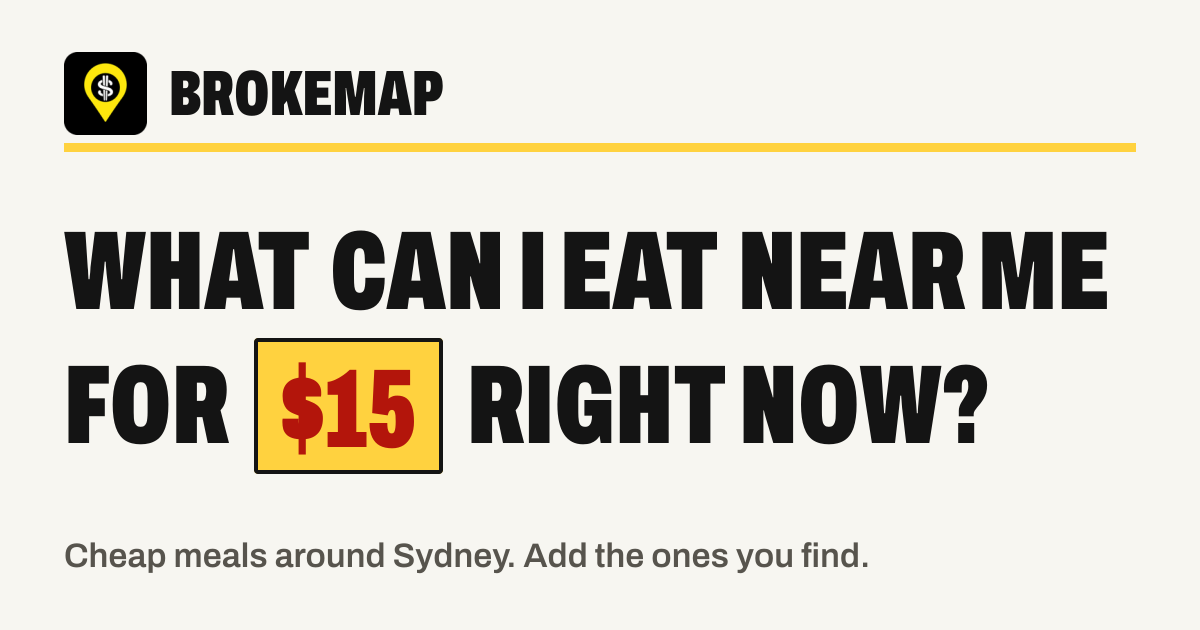
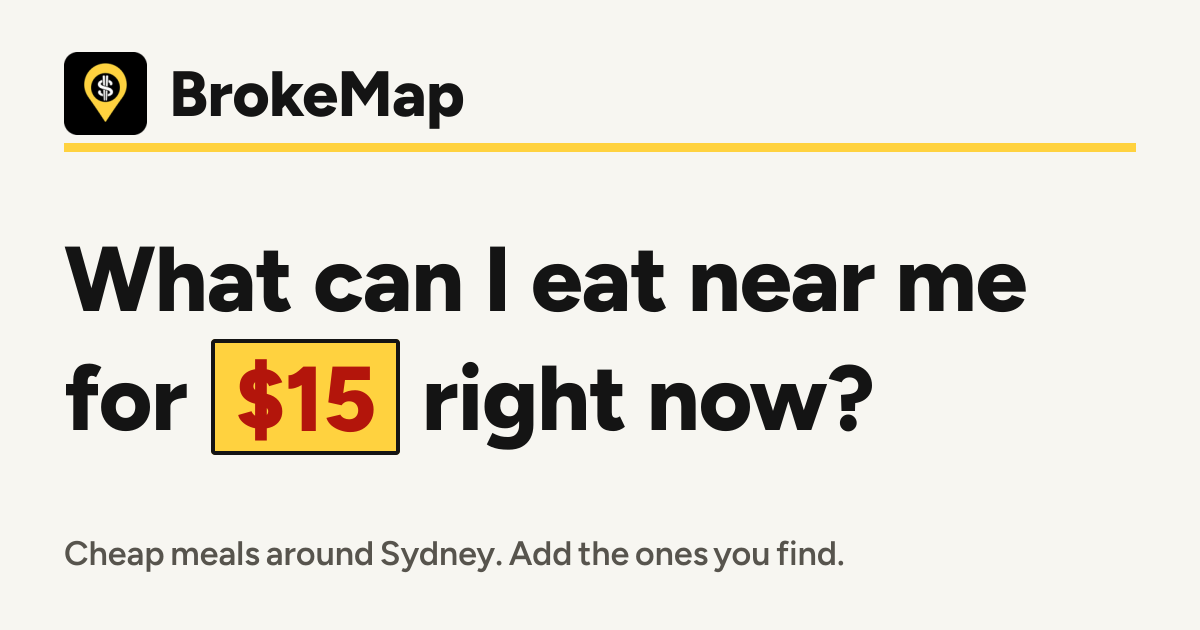
BrokeMap landing: Figtree in sentence case, as in the app (D-125)
Archivo's condensed black capitals become Figtree 800 in sentence case; og.png and phone.jpg are
redrawn from the Figtree build, and the logo is the app's current one (the pin in the ticket
yellow). Not deployed.

diff --git a/brokemap/landing.css b/brokemap/landing.css
@@ -1,5 +1,5 @@
 /* BrokeMap landing page, in the app's own look (cheap-eats docs/DESIGN.md): receipt paper, ink,
-   one yellow ticket with a red price, Archivo. Privacy and terms keep the site's style.css. */
+   one yellow ticket with a red price, Figtree in sentence case (D-125). Privacy and terms keep the site's style.css. */
 :root {
   --paper: #f7f6f1;
   --surface: #ffffff;
@@ -9,7 +9,7 @@
   --ticket: #ffd23f;
   --ticket-price: #b3150b;
   --focus: #1d4ed8;
-  --font: 'Archivo', 'Arial Narrow', system-ui, sans-serif;
+  --font: 'Figtree', system-ui, -apple-system, 'Segoe UI', Roboto, sans-serif;
   color-scheme: light;
 }
 @media (prefers-color-scheme: dark) {
@@ -28,16 +28,16 @@ html, body { margin: 0; }
 body { background: var(--paper); color: var(--ink); font-family: var(--font); font-size: 17px; line-height: 1.5; overflow-wrap: break-word; }
 a { color: var(--ink); text-underline-offset: 3px; }
 a:focus-visible { outline: 3px solid var(--focus); outline-offset: 2px; }
-.cond { font-stretch: 62.5%; font-variation-settings: 'wdth' 62.5; font-weight: 900; word-spacing: 0.14em; text-transform: uppercase; }
+.heavy { font-weight: 800; letter-spacing: -0.01em; }
 .wrap { max-width: 1080px; margin: 0 auto; padding: 32px 16px 48px; display: grid; gap: 48px; }
 .hero { display: grid; gap: 28px; align-items: center; }
 .copy { display: grid; gap: 16px; justify-items: start; }
 .brand { display: flex; align-items: center; gap: 10px; margin: 0; font-size: 26px; line-height: 1; }
 .brand img { border-radius: 7px; display: block; }
-h1 { margin: 0; font-size: clamp(2.5rem, 9vw, 3.6rem); line-height: 0.98; text-wrap: balance; }
+h1 { margin: 0; font-size: clamp(2.25rem, 8.5vw, 3.4rem); line-height: 1.05; text-wrap: balance; }
 .ticket { display: inline-block; background: var(--ticket); color: var(--ticket-price); border: 2px solid #141414; border-radius: 2px; padding: 0 0.12em; font-variant-numeric: tabular-nums; line-height: 1; }
 .lede { margin: 0; font-size: 19px; max-width: 34ch; }
-.open { display: inline-flex; align-items: center; justify-content: center; min-height: 52px; padding: 10px 28px; background: var(--ink); color: var(--paper); border-radius: 4px; font-size: 21px; font-weight: 800; letter-spacing: 0.02em; text-decoration: none; }
+.open { display: inline-flex; align-items: center; justify-content: center; min-height: 52px; padding: 10px 28px; background: var(--ink); color: var(--paper); border-radius: 4px; font-size: 21px; font-weight: 800; letter-spacing: -0.01em; text-decoration: none; }
 .open:hover { background: color-mix(in srgb, var(--ink) 86%, var(--paper)); }
 .small { margin: 0; font-size: 14px; color: var(--ink-2); }
 .phone { margin: 0; justify-self: center; }
@@ -51,6 +51,6 @@ footer a { color: var(--ink-2); }
 @media (min-width: 900px) {
   .wrap { padding-top: 64px; gap: 64px; }
   .hero { grid-template-columns: 1.2fr 0.8fr; gap: 48px; }
-  h1 { font-size: 4rem; }
+  h1 { font-size: 3.6rem; }
   .phone img { width: 300px; }
 }

diff --git a/brokemap/index.html b/brokemap/index.html
@@ -18,17 +18,17 @@
 <link rel="icon" href="logo-120.png" type="image/png">
 <link rel="preconnect" href="https://fonts.googleapis.com">
 <link rel="preconnect" href="https://fonts.gstatic.com" crossorigin>
-<link rel="stylesheet" href="https://fonts.googleapis.com/css2?family=Archivo:wdth,wght@62.5..100,400..900&display=swap">
+<link rel="stylesheet" href="https://fonts.googleapis.com/css2?family=Figtree:wght@400..800&display=swap">
 <link rel="stylesheet" href="landing.css">
 </head>
 <body>
 <main class="wrap">
   <section class="hero" aria-labelledby="title">
     <div class="copy">
-      <p class="brand"><img src="logo-120.png" width="44" height="44" alt=""><span class="cond">BrokeMap</span></p>
-      <h1 id="title" class="cond">What can I eat near me for <span class="ticket">$15</span> right now?</h1>
+      <p class="brand"><img src="logo-120.png" width="44" height="44" alt=""><span class="heavy">BrokeMap</span></p>
+      <h1 id="title" class="heavy">What can I eat near me for <span class="ticket">$15</span> right now?</h1>
       <p class="lede">A free map of cheap meals around Sydney. The price you actually pay, the catch, and whether it's open now.</p>
-      <a class="open cond" href="https://brokemap.meridianlabssoftware.com/">Open BrokeMap</a>
+      <a class="open heavy" href="https://brokemap.meridianlabssoftware.com/">Open BrokeMap</a>
       <p class="small">No account needed to browse. Works in your phone's browser.</p>
     </div>
     <figure class="phone">
@@ -38,15 +38,15 @@
 
   <section class="points" aria-label="About BrokeMap">
     <div>
-      <h2 class="cond">Prices checked</h2>
+      <h2 class="heavy">Prices checked</h2>
       <p>From our own checks and from people who ate there. Every meal says when it was last checked, so you can tell a fresh tip from an old one.</p>
     </div>
     <div>
-      <h2 class="cond">The catch, up front</h2>
+      <h2 class="heavy">The catch, up front</h2>
       <p>Student card, lunch only, a drink you have to buy: it's on the meal, and it's in the price we show.</p>
     </div>
     <div>
-      <h2 class="cond">No account to browse</h2>
+      <h2 class="heavy">No account to browse</h2>
       <p>Sign in only to save meals or add one you found. There's no public profile, and your name never shows next to anything you add.</p>
     </div>
   </section>
